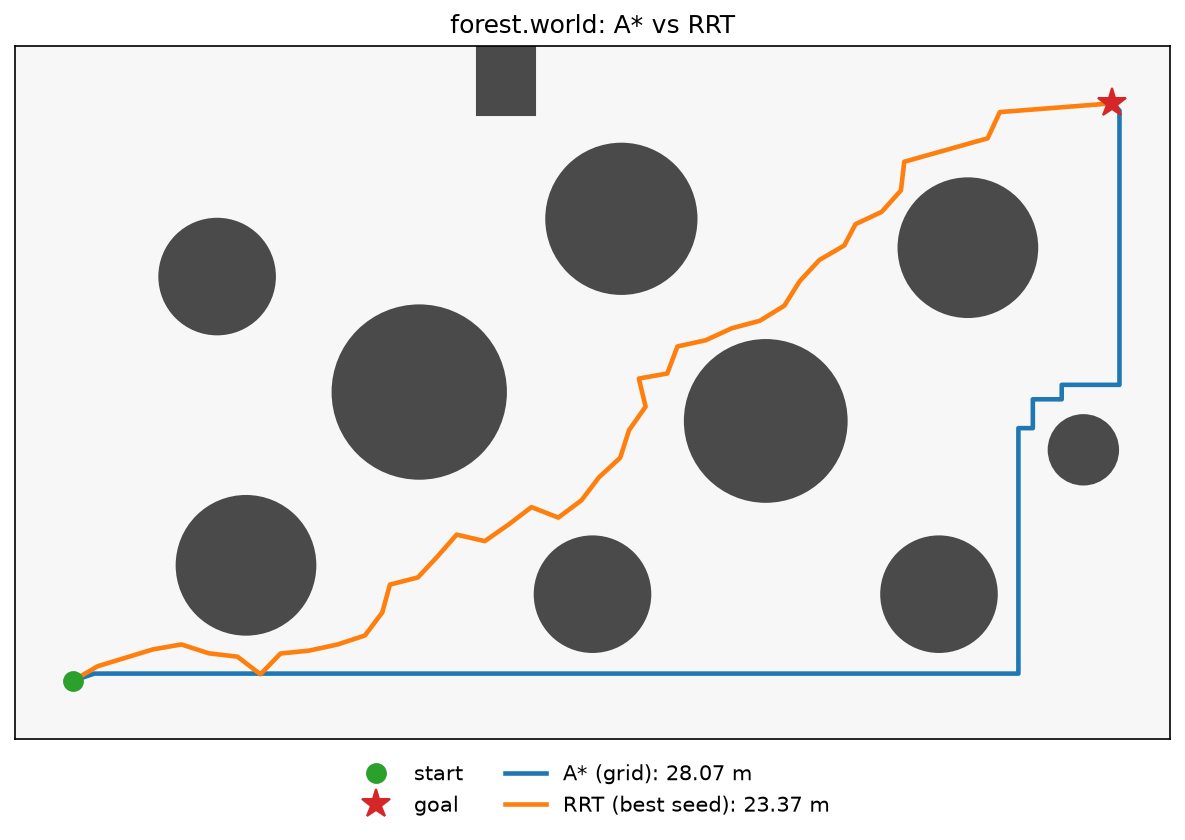
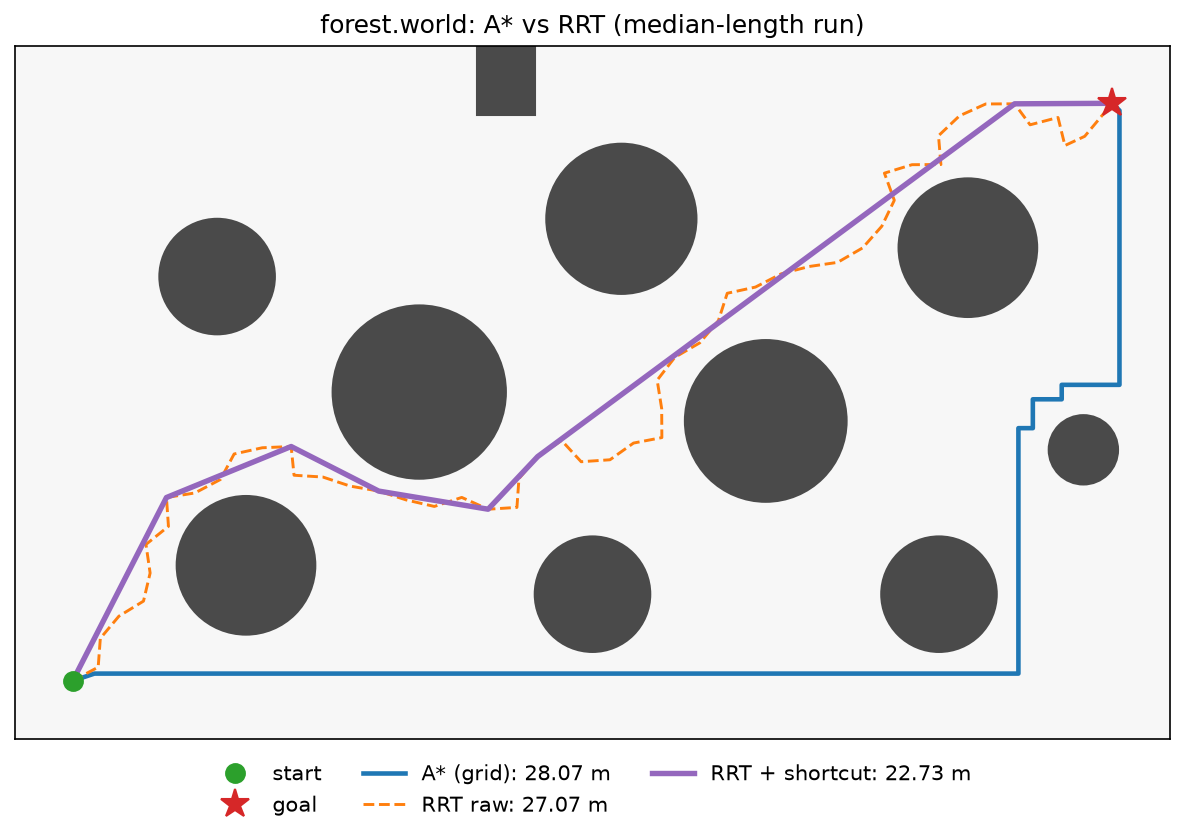
Update README results with raw vs smoothed RRT vs A*

diff --git a/README.md b/README.md
@@ -23,25 +23,35 @@ A* finds the optimal 36-move route through a 21×13 maze (4-connected, unit cost
 RRT grows a tree from the start by sampling random points in free space, with a
 5% bias toward the goal. Every edge is collision-checked exactly for a 0.3 m radius
 drone. In `rooms.world` the drone has to get through two 1.2 m doors, which is the
-classic hard case for uniform sampling:
+classic hard case for uniform sampling.
 
-![RRT tree growing through narrow doors](docs/rrt_rooms.gif)
+The raw RRT path (orange) is jagged. Random shortcutting then repeatedly picks two
+waypoints and, if the straight segment between them is collision-free, drops
+everything in between (purple):
+
+![RRT tree growing through narrow doors, then the path being shortcut](docs/rrt_rooms.gif)
 
 ### RRT vs A*
 
-Both planners run on the same world. A* searches a 0.25 m grid rasterized from the
+All planners run on the same world. A* searches a 0.25 m grid rasterized from the
 continuous map, with obstacles inflated by the drone radius. RRT plans directly in
-continuous space (0.5 m step, 5% goal bias). RRT results are over 50 seeds.
+continuous space (0.5 m step, 5% goal bias), and each path is then shortcut for 200
+rounds. RRT results are over 50 seeds.
 
-| Map | Planner | Success | Path length (m) | Planning time |
+| Map | Planner | Success | Path length (m), median (range) | Time (mean) |
 |---|---|---|---|---|
 | `forest.world` | A* (grid) | 1/1 | 28.07 | 0.04 ms |
-| | RRT | 50/50 | 27.06 median (23.37–31.97) | 0.09 ms mean |
+| | RRT raw | 50/50 | 27.06 (23.37–31.97) | 0.09 ms |
+| | RRT + shortcut | 50/50 | **22.98** (21.07–26.85) | 0.10 ms |
 | `rooms.world` | A* (grid) | 1/1 | 39.57 | 0.04 ms |
-| | RRT | 50/50 | 41.50 median (37.91–47.93) | 0.65 ms mean |
+| | RRT raw | 50/50 | 41.50 (37.91–47.93) | 0.66 ms |
+| | RRT + shortcut | 50/50 | **32.82** (31.44–36.65) | 0.67 ms |
 
 Release build on an Apple M5 Pro. A* time excludes the one-off rasterization
-(~0.03 ms). Reproduce with `compare_planners <map> --runs 50`.
+(~0.03 ms), and the smoothed time includes RRT. Reproduce with
+`compare_planners <map> --runs 50`.
+
+The figures show the run with the median raw length:
 
 | `forest.world` | `rooms.world` |
 |---|---|
@@ -49,9 +59,10 @@ Release build on an Apple M5 Pro. A* time excludes the one-off rasterization
 
 Takeaways:
 
-- **A\* is deterministic and optimal on its grid, but only on its grid.** Its 4-connected moves make a staircase, so in the open `forest` map RRT's any-angle paths come out shorter on median.
-- **RRT pays for narrow passages.** In `rooms` it needs about 2.3x the nodes and 7x the time it needs in `forest`, and its paths are jagged and vary from seed to seed (38–48 m). Path smoothing or RRT\* would address this.
-- **Both are sub-millisecond at this scale.** A\*'s cost grows with grid resolution and map area, while RRT's grows with how hard the free space is to sample, not with map size.
+- **Shortcutting is nearly free and makes the biggest difference.** It adds about 0.01 ms, cuts the median path by 15% (forest) and 21% (rooms), and reduces hundreds of tree nodes to 6–8 waypoints. A path that sparse is also much easier for a controller to follow.
+- **Smoothed RRT beats grid A\* on length.** It's 18% shorter in `forest` and 17% shorter in `rooms`, because A\*'s 4-connected moves form a staircase while shortcut segments can take any angle. A\* is only optimal on its own grid.
+- **RRT still pays for narrow passages.** In `rooms` it needs about 2.3x the nodes and 7x the time it needs in `forest`. Smoothing also narrows the seed-to-seed spread (38–48 m raw down to 31–37 m), but it can't fix a path that went through the wrong door.
+- **All of them are sub-millisecond at this scale.** A\*'s cost grows with grid resolution and map area, while RRT's grows with how hard the free space is to sample.
 
 ## Features
 
@@ -61,10 +72,11 @@ Takeaways:
 - **Collision checking:** the drone is a disc. Point and swept-segment checks against circles, rectangles and bounds are exact (closed-form, no sampling), so thin walls between two free points are never missed.
 - **Drone dynamics:** point mass with max speed and max acceleration, integrated with semi-implicit Euler.
 - **RRT:** sampling-based planning in continuous space with goal biasing, seeded and fully reproducible.
+- **Path smoothing:** random shortcutting that removes unnecessary RRT waypoints while staying collision-free.
 - **A\* vs RRT:** the continuous map is rasterized (obstacles inflated by the drone radius) so both planners run on the same world, then compared on path length, success rate, and runtime over many seeds.
-- **CLI:** `plan_path` (A* on grid maps), `plan_rrt` (RRT, exports tree and path), `compare_planners` (benchmark table).
-- **Visualization:** matplotlib scripts for grid worlds, an animated GIF of RRT tree growth, and an A*/RRT overlay.
-- **Testing:** 70 GoogleTest unit tests for parsing, collision geometry, dynamics, RRT invariants, and A*, including optimal-length checks against BFS.
+- **CLI:** `plan_path` (A* on grid maps), `plan_rrt` (RRT plus shortcutting, exports tree and paths), `compare_planners` (benchmark table).
+- **Visualization:** matplotlib scripts for grid worlds, an animated GIF of RRT tree growth and smoothing, and an A*/RRT overlay.
+- **Testing:** 76 GoogleTest unit tests for parsing, collision geometry, dynamics, RRT and smoothing invariants, and A*, including optimal-length checks against BFS.
 - **CI:** GitHub Actions builds and runs the tests on every push.
 
 ## Build and run
@@ -102,8 +114,8 @@ python3 viz/animate_rrt.py maps/rooms.world build/rrt -o rrt.gif --png rrt.png
 python3 viz/plot_compare.py maps/rooms.world build/compare -o compare.png
 ```
 
-`plan_rrt` options: `--seed`, `--step`, `--goal-tol`, `--goal-bias`, `--max-iters`.
-`compare_planners` options: `--res` (A* cell size, m), `--runs`, `--max-iters`, `--out`.
+`plan_rrt` options: `--seed`, `--step`, `--goal-tol`, `--goal-bias`, `--max-iters`, `--smooth-iters`.
+`compare_planners` options: `--res` (A* cell size, m), `--runs`, `--max-iters`, `--smooth-iters`, `--out`.
 
 ### Map format
 
@@ -133,7 +145,7 @@ Continuous maps in meters with `y` pointing up. One directive per line, and `#` 
 ## Project layout
 
 ```
-include/drone/   public headers (grid, astar, world2d, collision, drone, rrt, rasterize)
+include/drone/   public headers (grid, astar, world2d, collision, drone, rrt, smoothing, rasterize)
 src/             core library (drone_core)
 apps/            CLI tools (plan_path, plan_rrt, compare_planners)
 tests/           GoogleTest unit tests
@@ -145,7 +157,7 @@ docs/            images used in this README
 ## Roadmap
 
 - [x] **Milestone 1:** grid world and A* path planning
-- [x] **Milestone 2:** RRT in continuous space and drone physics
+- [x] **Milestone 2:** RRT in continuous space with path smoothing, and drone physics
 - [ ] **Milestone 3:** PID path following
 - [ ] **Milestone 4:** dynamic obstacles and local avoidance (global planner replanning plus a local avoidance layer)
 - [ ] **Milestone 5:** Python bindings and a Gymnasium environment
